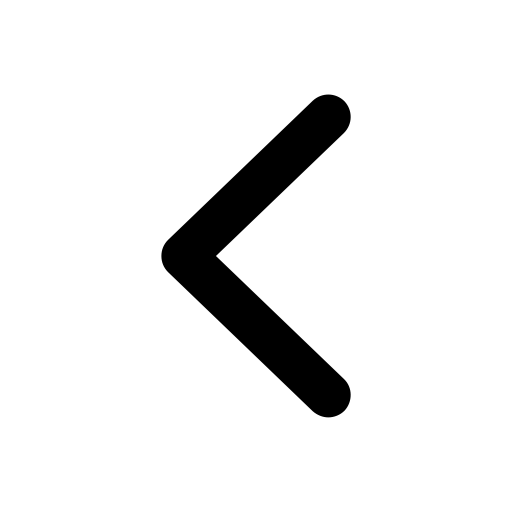
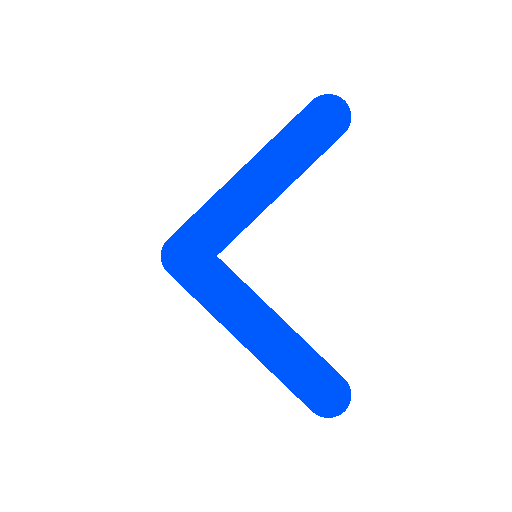
knew it was contact us, backwarding

Changed region(s): [[0.3125, 0.1875, 0.6875, 0.8125]]

diff --git a/style/about.css b/style/about.css
@@ -83,7 +83,7 @@
 
 .about_icon{
     border-radius: 3px;
-    border: 1px solid lightgray;
+    border: 1px solid dodgerblue;
     margin-top: 3.5%;
     background-color: rgba(255, 255, 255, 0.8);
     height: 100%;
